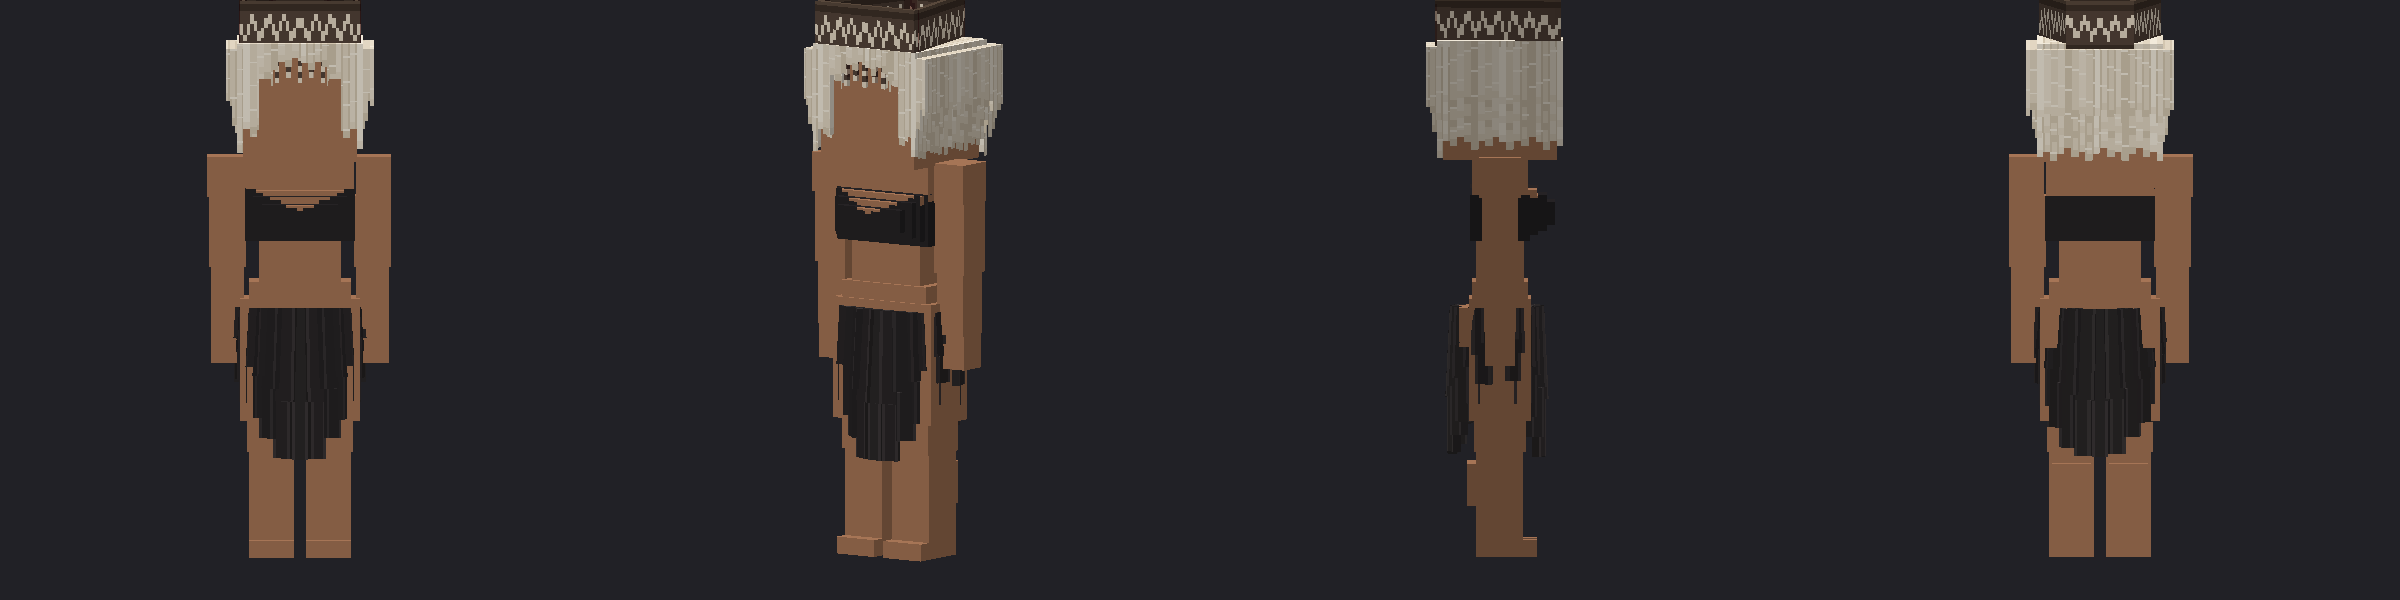
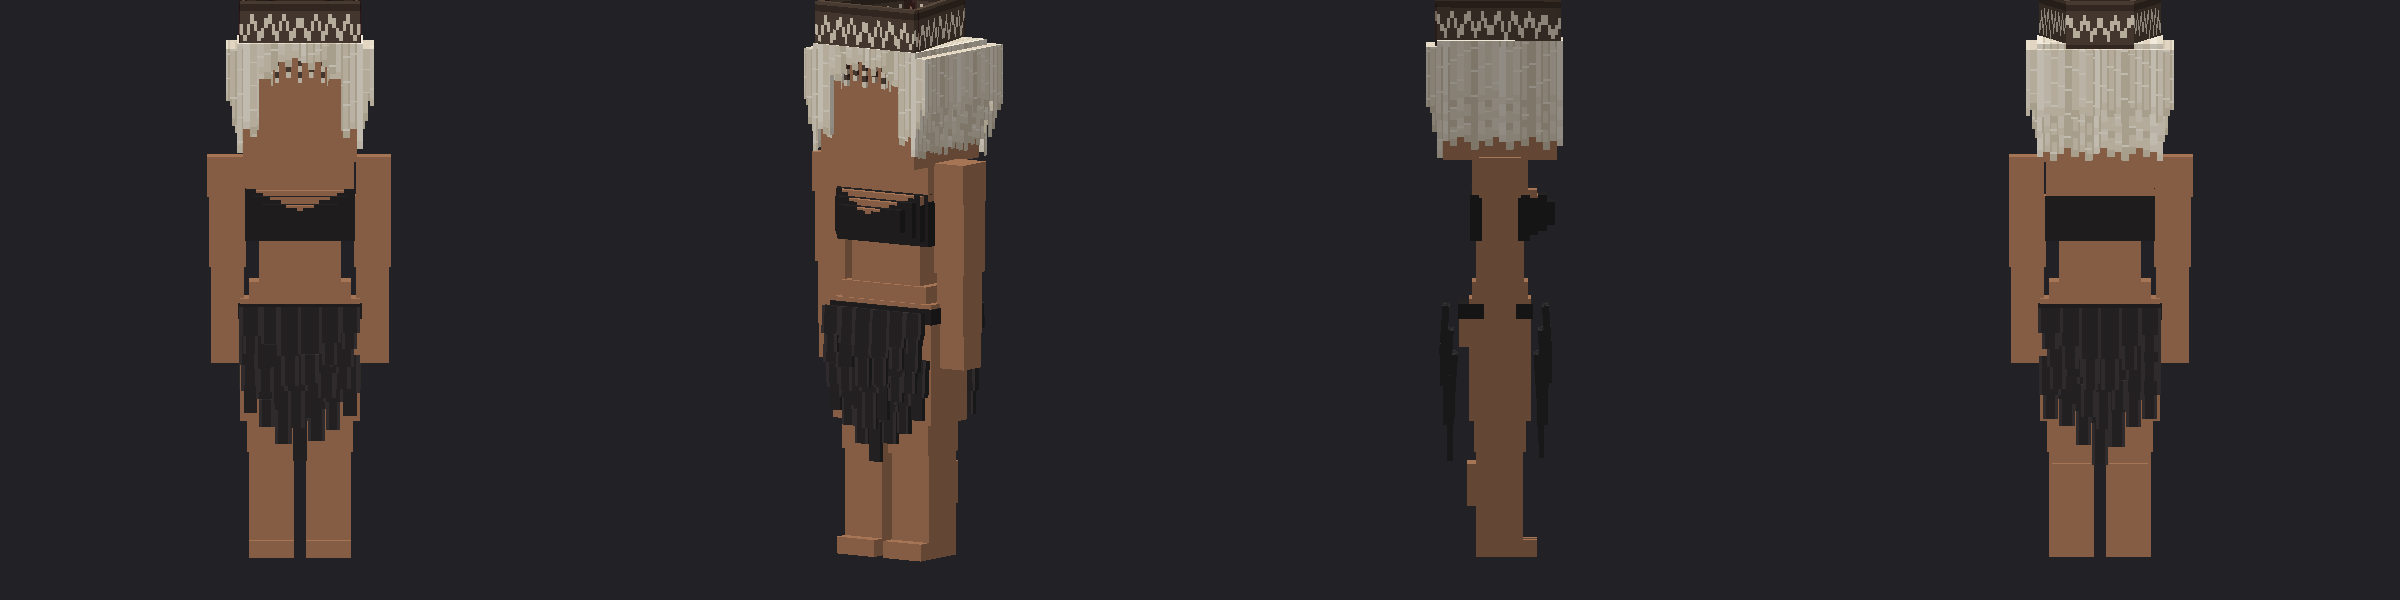
Kemira: falda de plumas como taparrabo, en capas, sin plumas a los costados
Claude-Session: https://claude.ai/code/session_01JLSuk79QgXUucDMTiBYitK

diff --git a/taller/personajes/kemira.py b/taller/personajes/kemira.py
@@ -270,21 +270,28 @@ def top_v(t):
 
 
 def ropa(p, L):
-    """Un top negro con escote en V que rodea el pecho y la espalda, y una falda de plumas gruesas en V (largas
-    al medio de adelante y de atras, cortas a los costados)."""
+    """Un top negro con escote en V que rodea el pecho y la espalda, y una falda de plumas como taparrabo (paneles
+    adelante y atras en capas, en V; los costados sin plumas)."""
     g = "Body/ropa"
     p.caja(g, "top", (-3.9, 22.3, -2.1), (3.9, 26.0, 2.1), top_v, dens=D, luz=False)
     for k, (x, y0, y1, z) in enumerate(BUSTO):
         p.caja(g, f"top_busto{k}", (-x - 0.1, y0 - 0.1, z - 0.7), (x + 0.1, y1 + 0.1, z - 0.05), top_v, dens=D, luz=False)
-    n = 26
-    for k in range(n):
-        a = 2 * math.pi * k / n
-        x, z = 4.3 * math.sin(a), (3.0 if math.cos(a) > 0 else 2.5) * math.cos(a)
-        centro = abs(math.cos(a))                                  # 1 al medio de adelante y atras, 0 a los costados
-        largo = 3.6 + 7.0 * centro ** 1.5 + 0.8 * (_azar(k + 900) - 0.5)
-        phi = math.degrees(math.atan2(x, z))
-        poner_figura(p, f"falda{k}", (x, L + 1.6, z), largo, 1.5 + 0.5 * _azar(k + 950), (177, phi, 0),
-                     NEGRO, None, grosor=0.7, dobla=3, grupo="Body/falda", luz=False)
+    # falda como taparrabo: un panel adelante y otro atras de plumas en tres capas que se enciman (la de arriba
+    # por fuera), mas largas al medio (en V); a los costados solo el cinto
+    p.caja(g, "cinto", (-4.35, L + 0.8, -2.35), (4.35, L + 1.9, 2.95), lambda t: hex_(NEGRO_ROPA), dens=D, luz=False)
+    k = 0
+    for lado, zs, phi in ((-1, -2.35, 180.0), (1, 2.95, 0.0)):
+        for capa in range(3):
+            y = L + 1.7 - capa * 1.7
+            n = 7 - (capa == 0)
+            for i in range(n):
+                x = -3.5 + 7.0 * (i + 0.5 * (capa % 2)) / (n - 1 + 0.5 * (capa % 2))
+                x = max(-3.6, min(3.6, x))
+                largo = 3.0 + 0.6 * capa + 3.4 * (1 - abs(x) / 3.6) ** 1.3 + 0.5 * (_azar(k + 900) - 0.5)
+                z = zs + lado * (0.25 + 0.3 * (2 - capa))
+                poner_figura(p, f"pluma_falda{k}", (x, y, z), largo, 1.3 + 0.5 * _azar(k + 950), (176, phi, 0),
+                             NEGRO, None, grosor=0.5, dobla=4, grupo="Body/falda", luz=False)
+                k += 1
 
 
 def construir():
